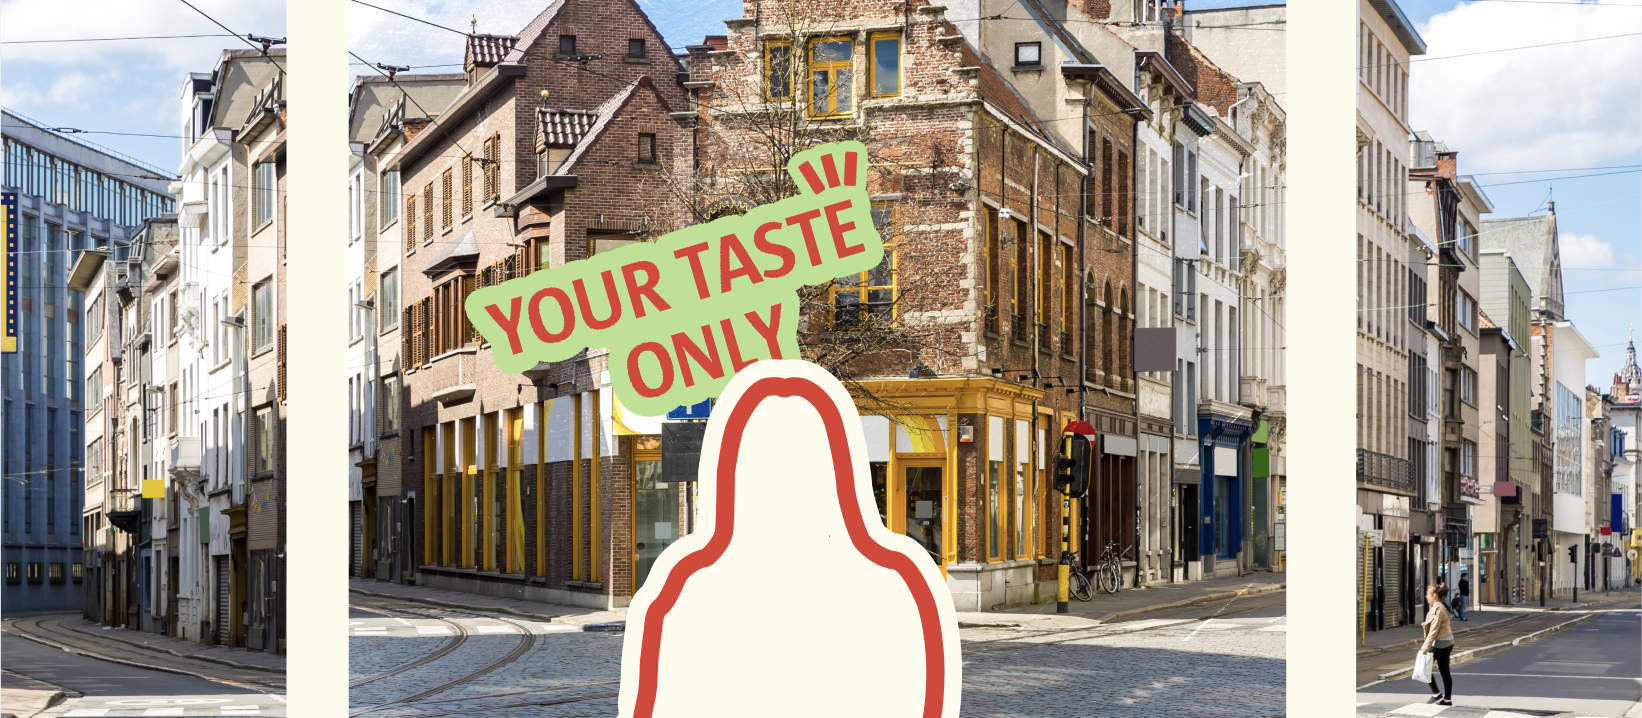
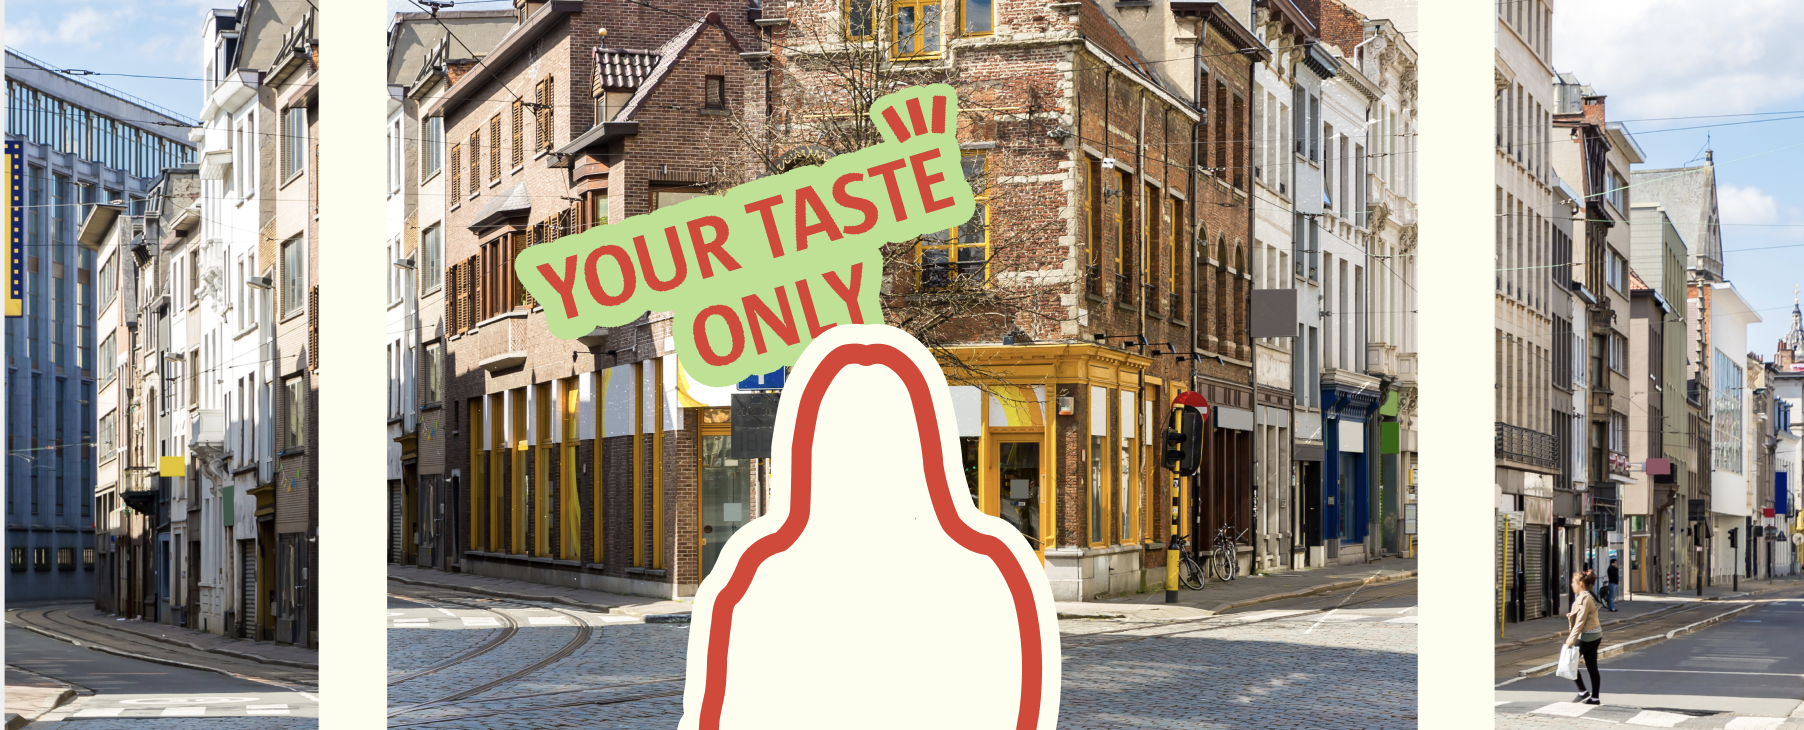
details + links projects

diff --git a/src/content/projecten/project6.md b/src/content/projecten/project6.md
@@ -1,5 +1,5 @@
 ---
-title: "ux research"
+title: "Family Routines"
 date: 2025-12-01
 description: "UX"
 category: "ux"
@@ -11,16 +11,10 @@ partners: "Devine"
 ---
 For this assignment, we investigated how daily routines unfold within families. The goal was to understand how parents coordinate their schedules, what impact this has on the family structure, and what happens when there are no fixed routines. To do so, we used service design techniques from the left side of the Double Diamond, such as user research, observations, and analyzing insights, to gain a clear picture of the problem and the needs of families.
 
-<a class="research" href="https://www.behance.net/gallery/240442997/Assignment-ux" class="project__figma">Visit the research</a>
-
+<a class="research" href="https://www.figma.com/proto/3Cs1oElNMu3MG5AYI0Hpqu/design-exp?node-id=1025-122&viewport=-1782%2C-346%2C0.39&t=X0Zw125MrAxv6chG-1&scaling=min-zoom&content-scaling=fixed&page-id=1025%3A100
+" class="project__figma">Research file</a>
 
 <div class= "vraag-research">
-Hoe beinvloedt de manier waarop ouders hun dagelijkse planning afstemmen de structuur in het gezin, en wat gebeurt er als er geen routines zijn?
-</div>
+How does the way parents coordinate their daily schedules affect the structure of the family, and what happens when there are no routines?</div>
 
-![research Brandboard](../../content/projecten/img/research/start1.png)
-![research Brandboard](../../content/projecten/img/research/start2.png)
-![research Brandboard](../../content/projecten/img/research/start3.png)
-![research Brandboard](../../content/projecten/img/research/start4.png)
-![research Brandboard](../../content/projecten/img/research/start5.png)
-![research Brandboard](../../content/projecten/img/research/start6.png)
+![research Brandboard](../../content/projecten/img/research/bord.png)

diff --git a/src/content/projecten/project2.md b/src/content/projecten/project2.md
@@ -11,14 +11,14 @@ partners: "Devine"
 ---
 MixBox is a cocktail subscription that provides fresh ingredients and recipes to make easy, bar-quality cocktails at home. It targets eco-conscious establishments that want to enjoy themselves in a sustainable, environmentally friendly way.
 
+The goal of this project was to create a brand board and design a mobile app based on provided wireframes, resulting in a consistent and user-friendly interface.
+
 <a href="https://www.figma.com/proto/5h7oz3yajpyXZPvMKxtAY3/MixBox?node-id=4431-5444&viewport=-1393%2C339%2C0.14&t=WP5zKJFaEum4by6t-1&scaling=min-zoom&content-scaling=fixed&page-id=3093%3A3582" class="project__figma">Brandboard file</a>
 
 <a class="link" href="https://www.figma.com/proto/5h7oz3yajpyXZPvMKxtAY3/MixBox?node-id=4165-11578&viewport=380%2C418%2C0.37&t=b7LDF0recaG5H4GA-1&scaling=scale-down&content-scaling=fixed&starting-point-node-id=4165%3A11578&show-proto-sidebar=1&page-id=4165%3A11417" class="project__figma">Protype file</a>
 
 
 <iframe class="frame" style="border: 1px solid rgba(0, 0, 0, 0.1);" width="800" height="450" src="https://embed.figma.com/proto/5h7oz3yajpyXZPvMKxtAY3/MixBox?node-id=4165-11578&viewport=380%2C418%2C0.37&scaling=scale-down&content-scaling=fixed&starting-point-node-id=4165%3A11578&show-proto-sidebar=1&page-id=4165%3A11417&embed-host=share" allowfullscreen></iframe>
-
-The goal of this project was to create a brand board and design a mobile app based on provided wireframes, resulting in a consistent and user-friendly interface.
 
 ![mixbox Brandboard](../../content/projecten/img/mixbox/B1.png)
 ![mixbox Brandboard](../../content/projecten/img/mixbox/B2.png)

diff --git a/src/content/projecten/project3.md b/src/content/projecten/project3.md
@@ -9,10 +9,20 @@ services: "Concept Development, Web Development, UX, UI & Web Design"
 screen: img/respiro/startscherm.png
 partners: "Devine"
 ---
-A website where a worthless object is transformed into a new, usable object, inspired by endangered bird species. The goal is creative reuse and creation centered on nature conservation.
+
+The assignment is to choose an everyday object and give it three alternative uses within one clear concept. The website uses storytelling to introduce the concept and presents the three new uses, together with a challenge or event and testimonials.
+
+
+<div class="second-text"> 
+<span class ="second-titel"> Concept </span>
+</br>
+I chose a Christmas ornament with the theme giving endangered birds a second chance. Instead of being forgotten after Christmas, old or broken ornaments get a new purpose by providing birds with food, shelter or a place to grow. The ornament becomes a symbol of hope, protection and new life.
+</div>
 
 <a class="visit" href="https://moodsave.be/int2/" class="project__figma">Visit website</a>
+<a class="visit" href="https://www.figma.com/board/Qgu3dCaIIdWy9iEvMhteUS/integration-2-DF?node-id=0-1&t=B8ivZ99QxeEoaZxr-1
+" class="project__figma"> Progress file</a>
+
 
 ![respiro Brandboard](../../content/projecten/img/respiro/res1.png)
-![respiro Brandboard](../../content/projecten/img/respiro/res2.png)
 ![respiro Brandboard](../../content/projecten/img/respiro/res3.png)

diff --git a/src/content/projecten/project1.md b/src/content/projecten/project1.md
@@ -13,10 +13,6 @@ partners: "Devine"
 Atouche is a home staging company that helps present properties at their best for sale. Through thoughtful interior styling and a warm, professional approach, the company helps homeowners and real estate professionals create a strong first impression and increase a property's appeal.
 
 
-<a class= "see-button" href="https://www.figma.com/proto/BTWMhhUhx11klsCIab4asI/Atouch%C3%A9?node-id=69-216&viewport=284%2C181%2C0.47&t=HkSBBU3IeGCMOoqU-1&scaling=min-zoom&content-scaling=fixed&page-id=69%3A215" class="project__figma">Figma file</a>
+<a class= "see-button" href="https://www.figma.com/proto/BTWMhhUhx11klsCIab4asI/Atouch%C3%A9?node-id=69-216&viewport=284%2C181%2C0.47&t=HkSBBU3IeGCMOoqU-1&scaling=min-zoom&content-scaling=fixed&page-id=69%3A215" class="project__figma">Brandboard file</a>
 
-![Atouche Brandboard](../../content/projecten/img/atouche/atouche1.png)
-![Atouche Brandboard](../../content/projecten/img/atouche/atouche2.png)
-![Atouche Brandboard](../../content/projecten/img/atouche/atouche3.png)
-![Atouche Brandboard](../../content/projecten/img/atouche/atouche4.png)
-![Atouche Brandboard](../../content/projecten/img/atouche/atouche5.png)
+![Atouche Brandboard](../../content/projecten/img/atouche/styleboard.png)

diff --git a/src/content/projecten/project5.md b/src/content/projecten/project5.md
@@ -5,7 +5,7 @@ description: "Design, UX & development"
 category: ["design", "development", "ux"]
 image: img/dior.png
 tools: "Figma, Adobe Photoshop, Adobe Illustrator"
-services: "Concept Development, Web Development, UX, UI & Web Design"
+services: "Concept Development, UX/UI Design, Web Development & Responsive Design"
 screen: img/dior/startscherm.png
 partners: "Devine , MoMu Museum"
 ---
@@ -20,10 +20,4 @@ partners: "Devine , MoMu Museum"
 </div>
 
 ![dior Brandboard](../../content/projecten/img/dior/desktop1.png) 
-![dior Brandboard](../../content/projecten/img/dior/desktop2.png) 
-![dior Brandboard](../../content/projecten/img/dior/desktop3.png)
-![dior Brandboard](../../content/projecten/img/dior/desktop4.png) 
 ![dior Brandboard](../../content/projecten/img/dior/mobile1.png)
- ![dior Brandboard](../../content/projecten/img/dior/mobile2.png)
- ![dior Brandboard](../../content/projecten/img/dior/mobile3.png)
-![dior Brandboard](../../content/projecten/img/dior/mobile4.png) 

diff --git a/src/content/projecten/project10.md b/src/content/projecten/project10.md
@@ -36,7 +36,7 @@ Rather than providing an exhaustive list of recommendations, The Portal offers a
 For people who have not visited Antwerp yet, an online campaign creates curiosity around The Portal and the hidden side of the city, encouraging them to plan their next visit.
 </div>
 
-<a class="research" href="https://github.com/MargotRopcke/integration4" class="project__figma">See our website</a>
+<a class="research" href="https://www.behance.net/gallery/251194535/The-Portal" class="project__figma">See our UX-website</a>
 
 
 <div class="second-text"> 

diff --git a/src/content/projecten/project7.md b/src/content/projecten/project7.md
@@ -16,4 +16,3 @@ Hidden Self is an interactive experience about self-expression and authenticity.
 
 ![hidden Brandboard](../../content/projecten/img/hidden/scherm1.png)
 ![hidden Brandboard](../../content/projecten/img/hidden/scherm2.png)
-![hidden Brandboard](../../content/projecten/img/hidden/scherm3.png)![hidden Brandboard](../../content/projecten/img/hidden/scherm4.png)
